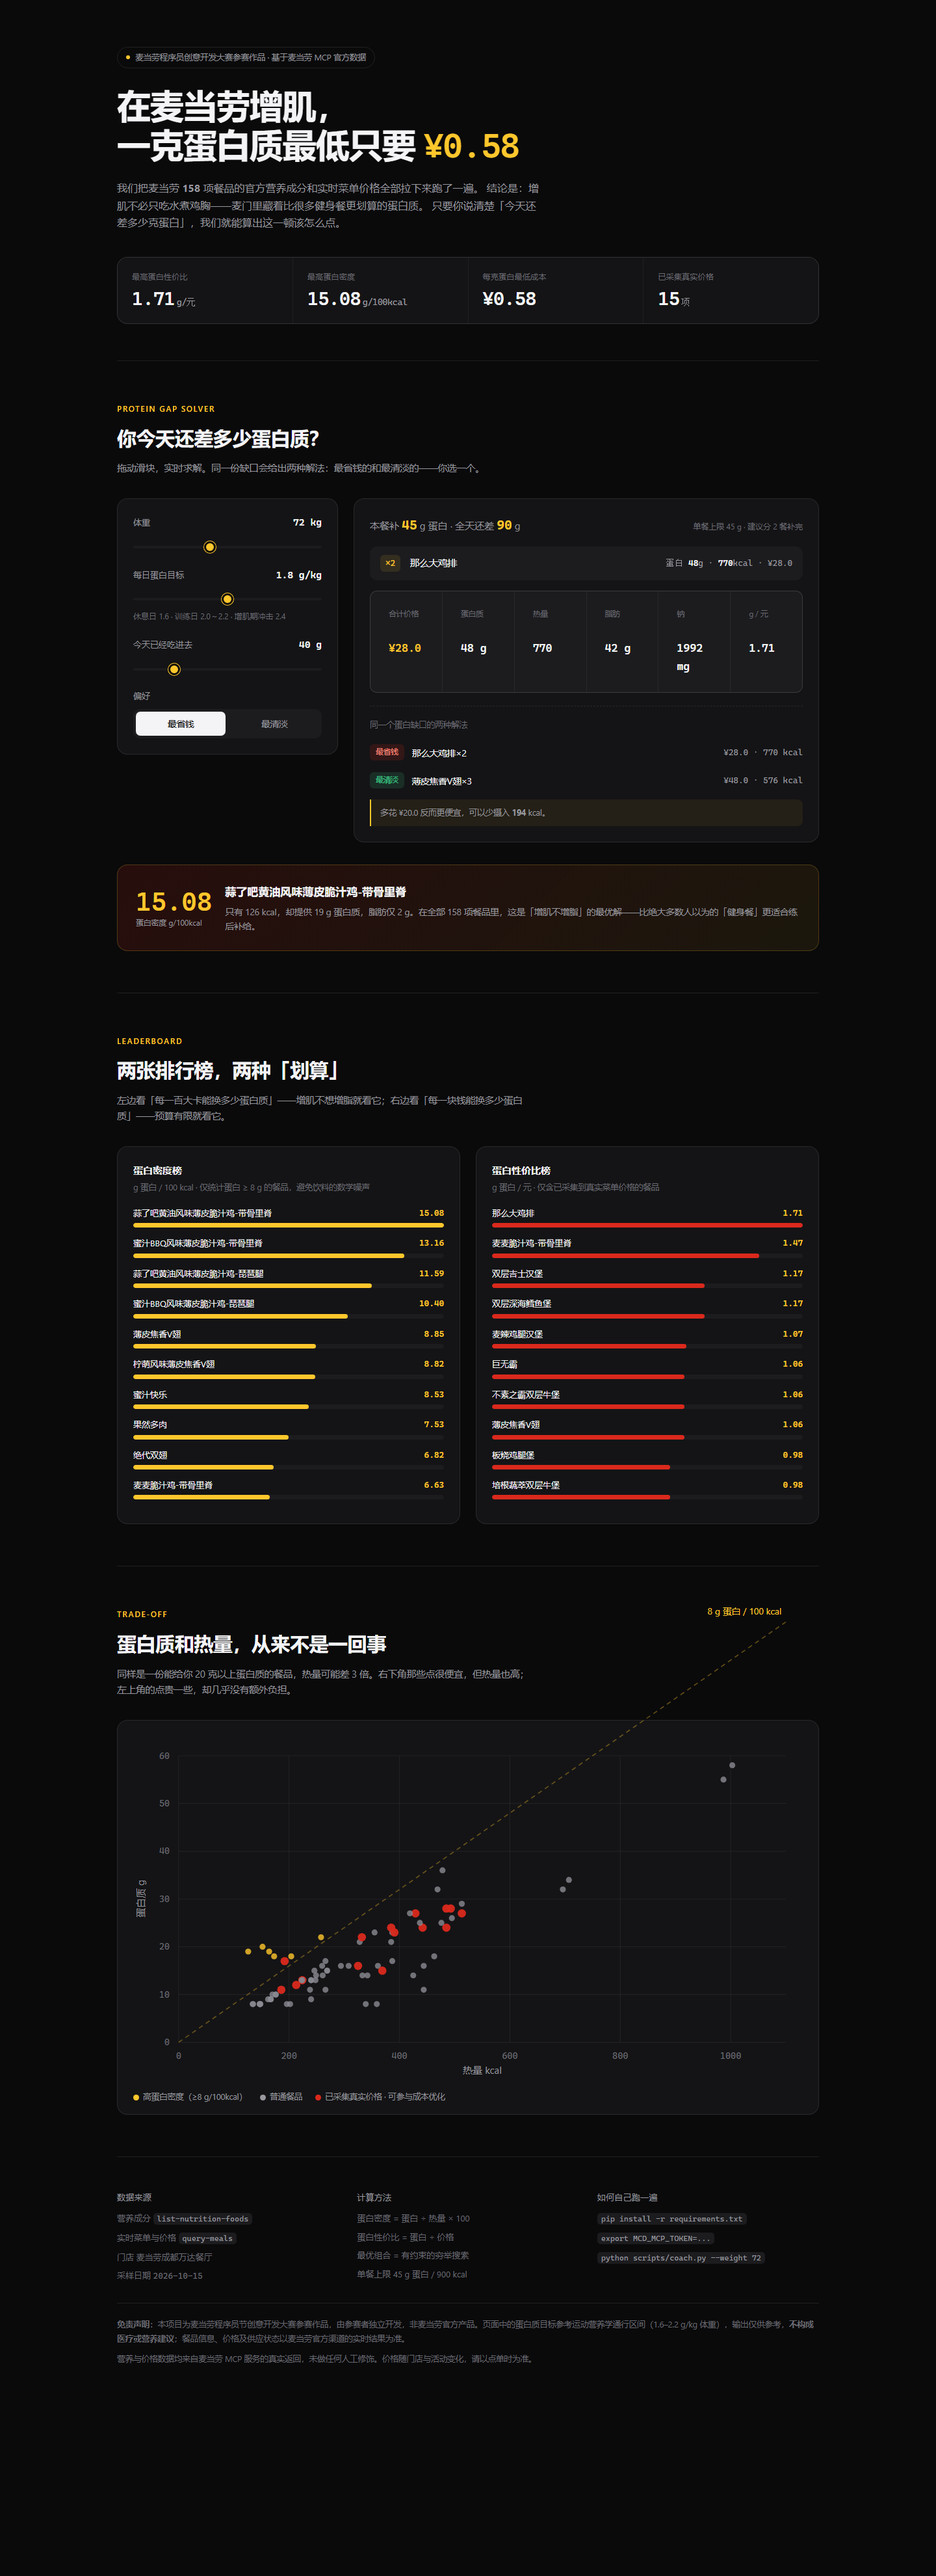
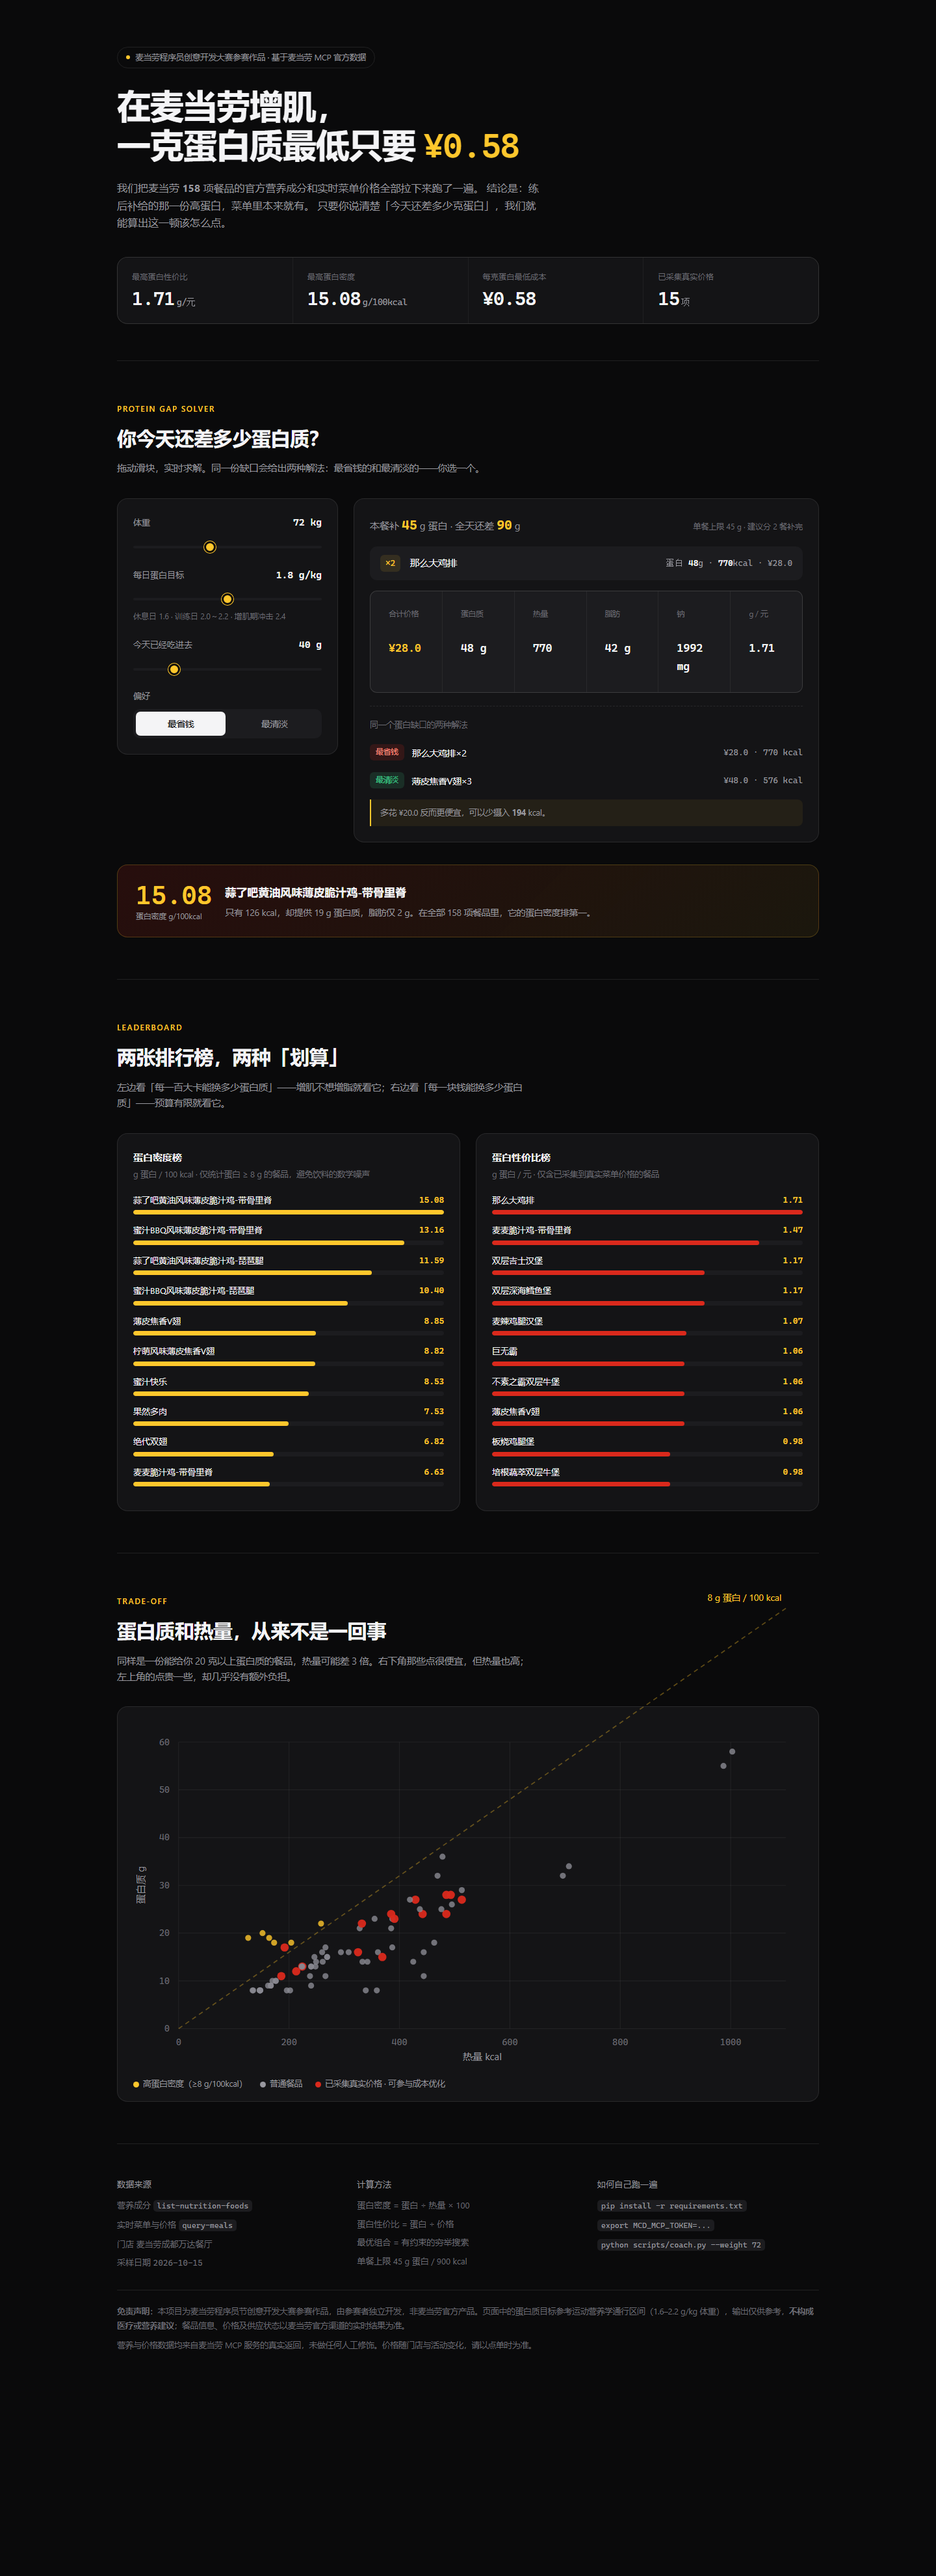
chore: 按大赛规则移除品牌对比表述并重新生成面板
- 移除「比健身餐更划算」「水煮鸡胸」等与其他产品对比的措辞（规则禁止）
- 巨无霸相关表述改为中性数据陈述，不作优劣评判
- 重新生成 docs/index.html 与预览图

diff --git a/assets/dashboard-template.html b/assets/dashboard-template.html
@@ -144,7 +144,7 @@ footer code{font-family:var(--mono);font-size:12px;color:var(--muted);background
   <h1>在麦当劳增肌，<br>一克蛋白质最低只要 <span class="price">¥0.58</span></h1>
   <p class="lede">
     我们把麦当劳 <b id="hTotal"></b> 项餐品的官方营养成分和实时菜单价格全部拉下来跑了一遍。
-    结论是：增肌不必只吃水煮鸡胸——麦门里藏着比很多健身餐更划算的蛋白质。
+    结论是：练后补给的那一份高蛋白，菜单里本来就有。
     只要你说清楚「今天还差多少克蛋白」，我们就能算出这一顿该怎么点。
   </p>
   <div class="stats">
@@ -371,7 +371,7 @@ document.getElementById('cRatio').innerHTML = champ.proteinPer100kcal.toFixed(2)
 document.getElementById('cName').textContent = champ.name;
 document.getElementById('cDesc').textContent =
   `只有 ${champ.energyKcal} kcal，却提供 ${champ.protein} g 蛋白质，脂肪仅 ${champ.fat} g。` +
-  `在全部 ${DATA.items.length} 项餐品里，这是「增肌不增脂」的最优解——比绝大多数人以为的「健身餐」更适合练后补给。`;
+  `在全部 ${DATA.items.length} 项餐品里，它的蛋白密度排第一。`;
 
 /* ============================================================
    3. 排行榜

diff --git a/docs/index.html b/docs/index.html
@@ -144,7 +144,7 @@ footer code{font-family:var(--mono);font-size:12px;color:var(--muted);background
   <h1>在麦当劳增肌，<br>一克蛋白质最低只要 <span class="price">¥0.58</span></h1>
   <p class="lede">
     我们把麦当劳 <b id="hTotal"></b> 项餐品的官方营养成分和实时菜单价格全部拉下来跑了一遍。
-    结论是：增肌不必只吃水煮鸡胸——麦门里藏着比很多健身餐更划算的蛋白质。
+    结论是：练后补给的那一份高蛋白，菜单里本来就有。
     只要你说清楚「今天还差多少克蛋白」，我们就能算出这一顿该怎么点。
   </p>
   <div class="stats">
@@ -371,7 +371,7 @@ document.getElementById('cRatio').innerHTML = champ.proteinPer100kcal.toFixed(2)
 document.getElementById('cName').textContent = champ.name;
 document.getElementById('cDesc').textContent =
   `只有 ${champ.energyKcal} kcal，却提供 ${champ.protein} g 蛋白质，脂肪仅 ${champ.fat} g。` +
-  `在全部 ${DATA.items.length} 项餐品里，这是「增肌不增脂」的最优解——比绝大多数人以为的「健身餐」更适合练后补给。`;
+  `在全部 ${DATA.items.length} 项餐品里，它的蛋白密度排第一。`;
 
 /* ============================================================
    3. 排行榜

diff --git a/README.md b/README.md
@@ -2,7 +2,7 @@
 
 > **在麦当劳增肌，一克蛋白质最低只要 ¥0.58。**
 
-麦当劳有 158 项餐品的官方营养数据，但没有人告诉你：这堆数据里藏着一条比很多健身餐更划算的蛋白质路线。
+麦当劳有 158 项餐品的官方营养数据，但没有人告诉你：这堆数据里藏着一条极划算的高蛋白路线。
 
 说清楚「今天还差多少克蛋白」，它算出这一顿该怎么点——给你两条路线：**最省钱的**和**最清淡的**。
 
@@ -10,11 +10,11 @@
 
 ## 它解决什么问题
 
-增肌的人普遍认为「麦当劳 = 增脂」。但真实数据不支持这个结论：
+增肌期想吃麦当劳，很多人第一反应是「今天算了」。但官方营养数据不支持这种自我劝退：
 
 - **蒜了吧黄油风味薄皮脆汁鸡-带骨里脊**：19 g 蛋白质，只有 **126 kcal**，脂肪 2 g。蛋白密度 **15.08 g/100kcal**——在全部 158 项餐品里排第一。
-- **那么大鸡排**：24 g 蛋白质，¥14，蛋白性价比 **1.71 g/元**。一份水煮鸡胸自己做也就这个量级。
-- 反过来，**巨无霸**的蛋白性价比是 1.06 g/元，**只排到第 6**——它并不是增肌的最优解，只是最有名。
+- **那么大鸡排**：24 g 蛋白质，¥14，蛋白性价比 **1.71 g/元**，是全场最高的一档。
+- 而**巨无霸**的蛋白性价比是 1.06 g/元，排第 6——数据说明的是「目标不同，最优解就不同」，不涉及谁好谁坏。
 
 问题从来不是「麦当劳能不能吃」，而是「**在这 158 项里怎么组合**」。而这恰好是大模型口算最容易出错的地方：人脑和 LLM 都会漏掉「两份小食拼起来比一份套餐更划算」这类解。
 

diff --git a/SKILL.md b/SKILL.md
@@ -23,7 +23,7 @@ license: MIT
 - 「练完之后在麦当劳吃什么？」
 - 「增肌期能吃麦当劳吗，会不会白练？」
 - 「麦当劳哪个汉堡蛋白最高、热量最低？」
-- 「我想增肌，但不想吃水煮鸡胸」
+- 「我想增肌，练后想吃够蛋白」
 
 ## 核心概念
 
